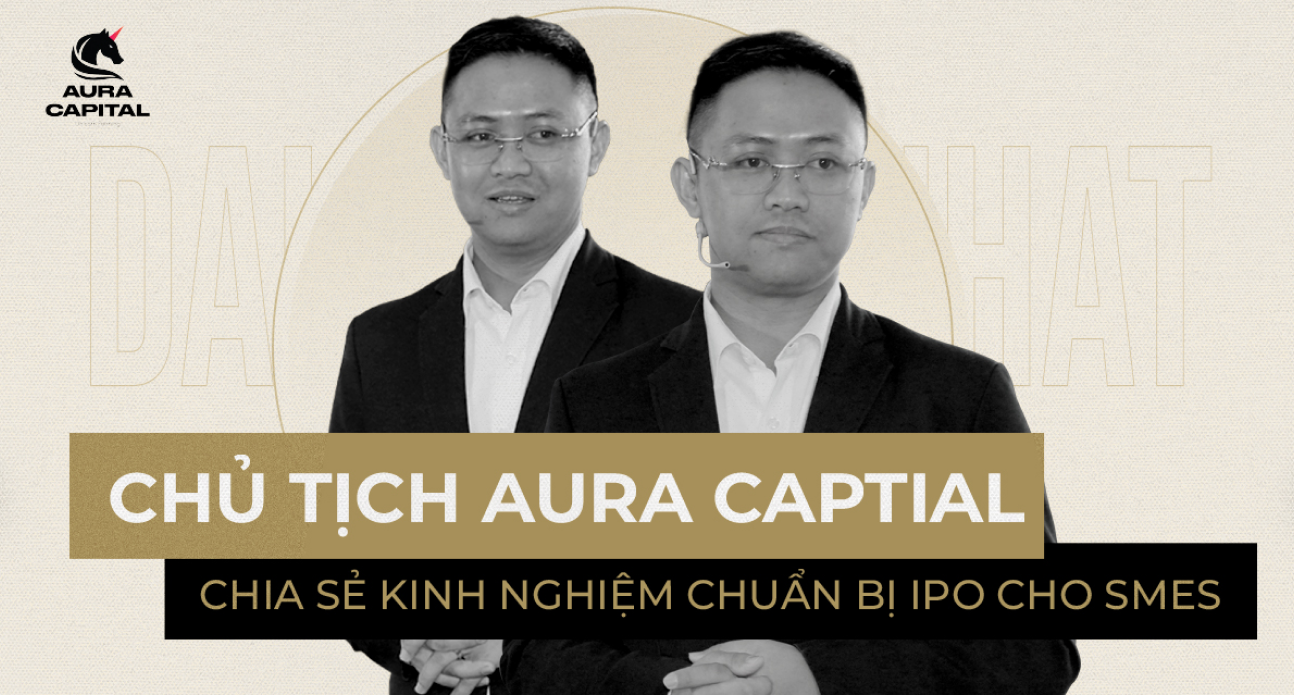
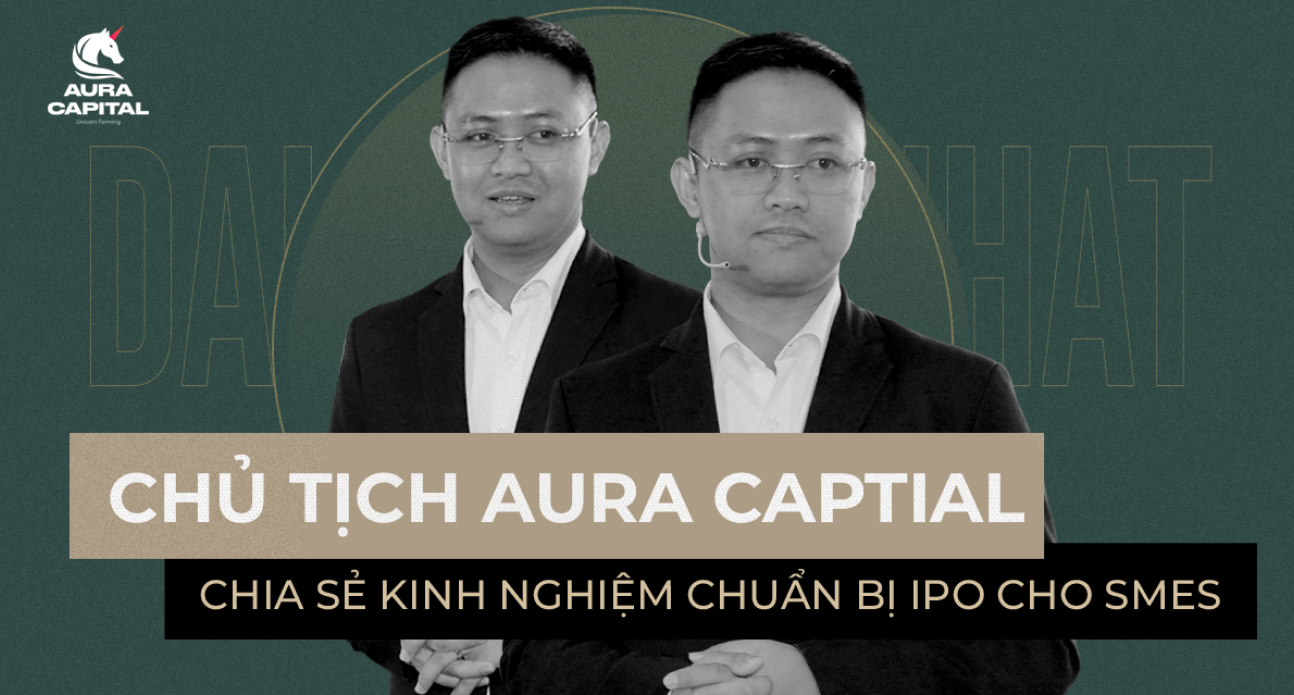
update

diff --git a/pages/expert/interview/Interview.module.scss b/pages/expert/interview/Interview.module.scss
@@ -22,7 +22,8 @@
     position: absolute;
     bottom: 0;
     right: 0;
-    background-color: #fff;
+    background-color: #314a46;
+    color: #fff;
   }
 
   &_decor_2 {
@@ -41,7 +42,7 @@
     .box {
       margin-top: -30%;
       padding: 50px 130px 50px 50px;
-      background-color: #a8915b;
+      background-color: #699385;
       color: #fff;
       z-index: 1000;
     }
@@ -59,7 +60,7 @@
   }
 
   .position {
-    background-color: #a8915b;
+    background-color: #ac9c85;
     text-align: center;
     font-size: 30px;
     font-weight: 300;

diff --git a/pages/expert/interview/Interview.jsx b/pages/expert/interview/Interview.jsx
@@ -108,7 +108,7 @@ export default function Interview(props) {
                 <p>
                   Ông <span className={styles.text_special}>Minh Nhật</span> tại
                   một sự kiện do
-                  <span className={styles.text_special}>Aura Capital</span> tổ
+                  <span className={styles.text_special}> Aura Capital</span> tổ
                   chức.
                 </p>
               </div>
